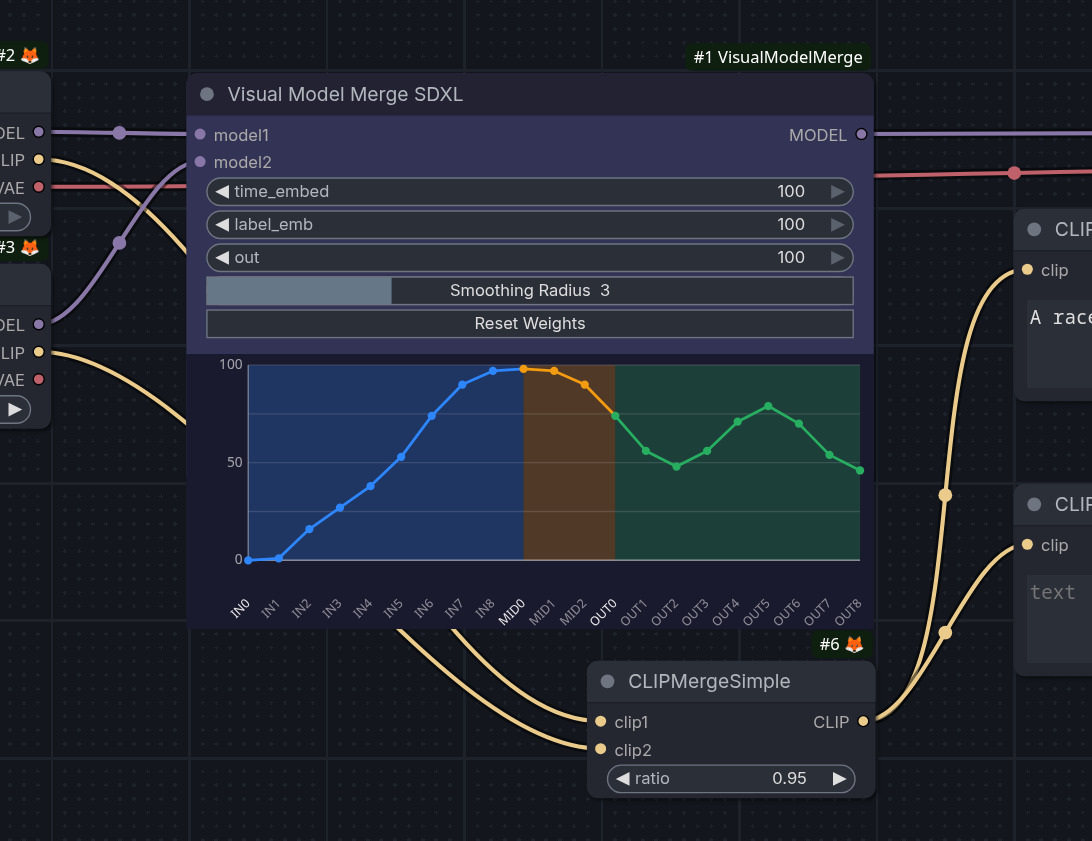
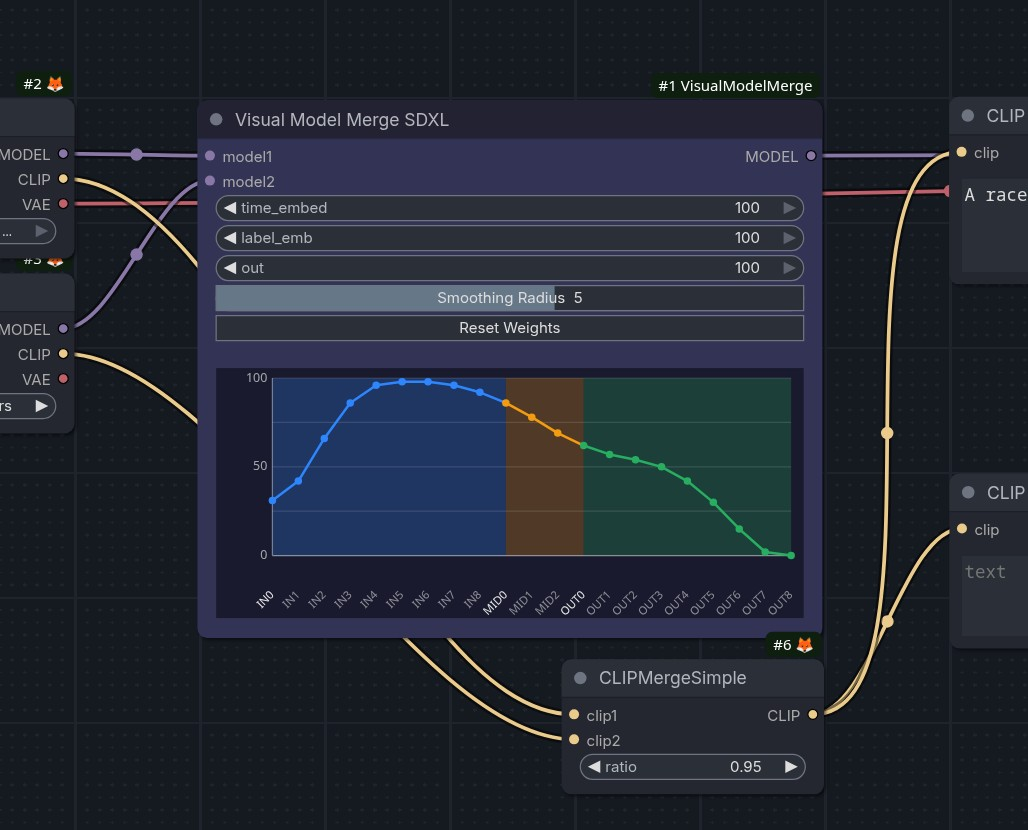
improved the display of the graph and added a min height, updated screenshot

diff --git a/js/visual_model_merge.js b/js/visual_model_merge.js
@@ -28,6 +28,8 @@ const COLORS = {
 
 const CURVE_HEIGHT = 200;
 const PAD = { l: 45, r: 10, t: 8, b: 50 };
+const WRAPPER_PAD = { l: 15, r: 15, t: 10, b: 15 }; // Padding around the graph within the node
+const MIN_NODE_HEIGHT = 400; // Minimum height to contain widgets + graph
 
 function clamp(x, lo, hi) {
     return Math.max(lo, Math.min(hi, x));
@@ -91,9 +93,10 @@ app.registerExtension({
                 app.canvas.setDirty(true, true);
             }, { serialize: false });
 
-            // Set node size
+            // Set node size with minimum dimensions to contain widgets and graph
             this.size[0] = Math.max(this.size[0], 420);
-            this.size[1] = this.computeSize()[1] + CURVE_HEIGHT + 10;
+            const requiredHeight = this.computeSize()[1] + WRAPPER_PAD.t + CURVE_HEIGHT + WRAPPER_PAD.b;
+            this.size[1] = Math.max(requiredHeight, MIN_NODE_HEIGHT);
 
             return r;
         };
@@ -106,12 +109,12 @@ app.registerExtension({
         };
 
         nodeType.prototype.getCurveArea = function () {
-            // Curve area is at the bottom of the node, after all widgets
+            // Curve area is at the bottom of the node, after all widgets, with wrapper padding
             const widgetsHeight = this.computeSize()[1];
             return {
-                x: 0,
-                y: widgetsHeight,
-                w: this.size[0],
+                x: WRAPPER_PAD.l,
+                y: widgetsHeight + WRAPPER_PAD.t,
+                w: this.size[0] - WRAPPER_PAD.l - WRAPPER_PAD.r,
                 h: CURVE_HEIGHT,
             };
         };
@@ -353,6 +356,19 @@ app.registerExtension({
             return onMouseUp?.apply(this, arguments);
         };
 
+        // Handle resize to enforce minimum dimensions
+        const onResize = nodeType.prototype.onResize;
+        nodeType.prototype.onResize = function (size) {
+            const minWidth = 420;
+            const requiredHeight = this.computeSize()[1] + WRAPPER_PAD.t + CURVE_HEIGHT + WRAPPER_PAD.b;
+            const minHeight = Math.max(requiredHeight, MIN_NODE_HEIGHT);
+
+            size[0] = Math.max(size[0], minWidth);
+            size[1] = Math.max(size[1], minHeight);
+
+            return onResize?.apply(this, arguments);
+        };
+
         // Handle loading saved workflows
         const onConfigure = nodeType.prototype.onConfigure;
         nodeType.prototype.onConfigure = function (info) {
@@ -368,8 +384,9 @@ app.registerExtension({
                 } catch (e) {}
             }
 
-            // Ensure proper size
-            this.size[1] = this.computeSize()[1] + CURVE_HEIGHT + 10;
+            // Ensure proper size with minimum height
+            const requiredHeight = this.computeSize()[1] + WRAPPER_PAD.t + CURVE_HEIGHT + WRAPPER_PAD.b;
+            this.size[1] = Math.max(requiredHeight, MIN_NODE_HEIGHT);
 
             return r;
         };
